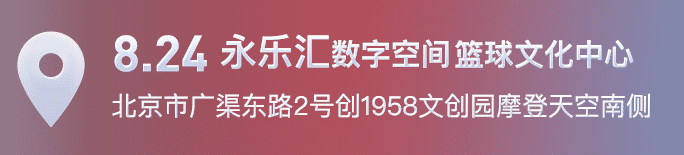
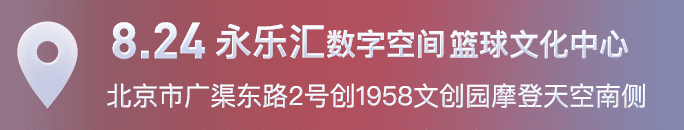
1.2.0

diff --git a/src/public/pages/event.vue b/src/public/pages/event.vue
@@ -9,6 +9,7 @@
           <img src="../assets/imgs/page2/kols.png" alt="" class="kols">
         </div>
       </div>
+      <img src="../assets/imgs/page2/toukui.png" alt="" class="toukui">
       <div class="location" @click="openMap(116.518785,39.89171,'永乐汇·数字空间篮球文化中心','北京市朝阳区广渠东路')">
         <!-- <img src="../assets/imgs/page2/location.png" alt="" class="icon">
         <div class="info">
@@ -115,6 +116,14 @@ export default {
       }
     }
   }
+  .toukui{
+    position: absolute;
+    z-index: 9999;
+    left:10rem;
+    right:12rem;
+    bottom:15vh;
+    width:8rem;
+  }
   .h-title{
     margin-top:3.17vh;
     width:24.64rem;
@@ -144,12 +153,13 @@ export default {
   .location{
     background: url(../assets/imgs/page2/addr.png);
     background-position: 100% 100%;
-    background-size: cover;
+    background-size: contain;
     position: absolute;
-    left:1.28rem;
-    bottom:3.1vh;
+    left:auto;
+    right:auto;
+    bottom:3.2vh;
     width: 27.28rem;
-    height:6.16rem;
+    height:5.18rem;
     z-index: 9999;
     display: flex;
     align-items: flex-start;

diff --git a/src/public/main.js b/src/public/main.js
@@ -4,7 +4,7 @@ import './assets/scss/main.scss';
 import 'animate.css'
 // import VueCookie from 'vue-cookie';
 // Vue.use(VueCookie);
-console.log('v1.1.5')
+console.log('v1.2.0')
 
 import attachFastClick, {FastClick} from 'fastclick';
 var deviceIsWindowsPhone = navigator.userAgent.indexOf("Windows Phone") >= 0;
